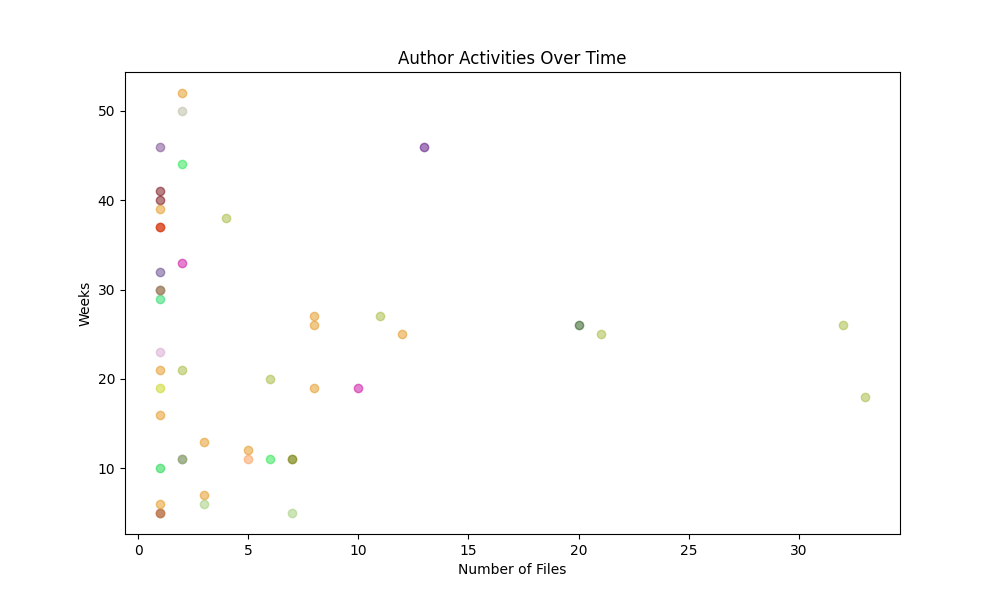
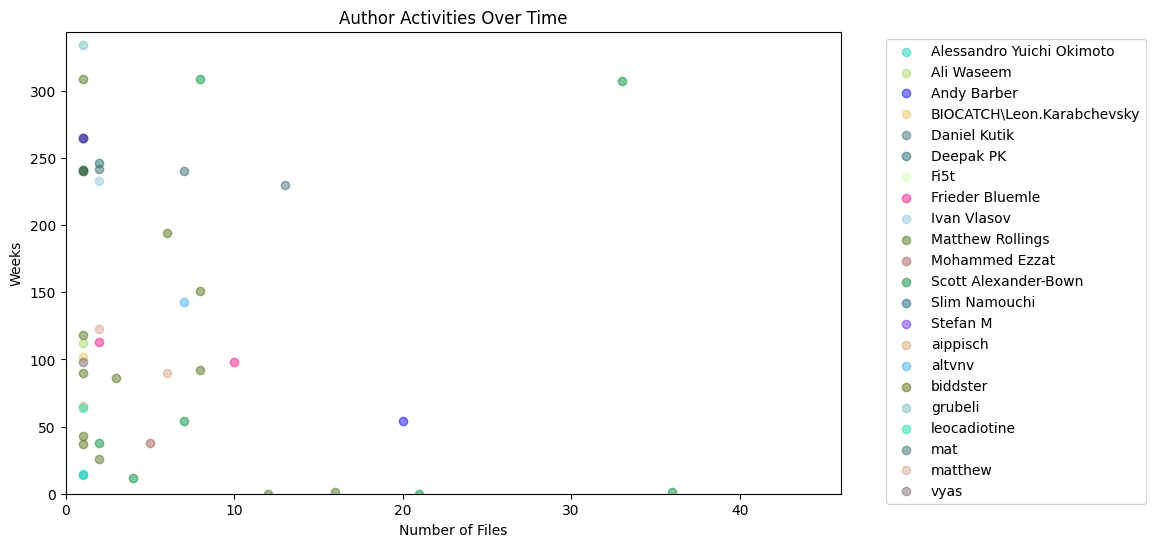
Finishing touches to scatterplot code

diff --git a/repo_mining/Brandon_scatterplot.py b/repo_mining/Brandon_scatterplot.py
@@ -5,9 +5,11 @@ import numpy as np
 # Read the CSV file
 df = pd.read_csv('data/file_authors_dates.csv')
 
-# Convert 'Date' to datetime and extract the week
+# Convert 'Date' to datetime
 df['Date'] = pd.to_datetime(df['Date'])
-df['Week'] = df['Date'].dt.isocalendar().week
+
+# Calculate the number of weeks from the minimum date
+df['Week'] = (df['Date'] - df['Date'].min()).dt.days // 7
 
 # Count the number of files modified by each author per week
 df = df.groupby(['Author', 'Week']).size().reset_index(name='Files')
@@ -21,10 +23,21 @@ for author in df['Author'].unique():
     plt.scatter(df[df['Author'] == author]['Files'], 
                 df[df['Author'] == author]['Week'], 
                 c=[colors[author]], 
-                alpha=0.5)
+                alpha=0.5, 
+                label=author)  # Add a label for the legend
 
 plt.ylabel('Weeks')
 plt.xlabel('Number of Files')
 plt.title('Author Activities Over Time')
 
-plt.savefig('data/scatter_plot.png')
+# Set the range of each axis
+plt.xlim(0, df['Files'].max() + 10)  # Adjust as needed
+plt.ylim(0, df['Week'].max() + 10)  # Adjust as needed
+
+# Display the legend
+plt.legend(bbox_to_anchor=(1.05, 1), loc='upper left')
+
+plt.savefig('data/scatter_plot.png', bbox_inches='tight')
+
+# Calculate total number of files modified by each author
+total_files_by_author = df.groupby('Author')['Files'].sum()
